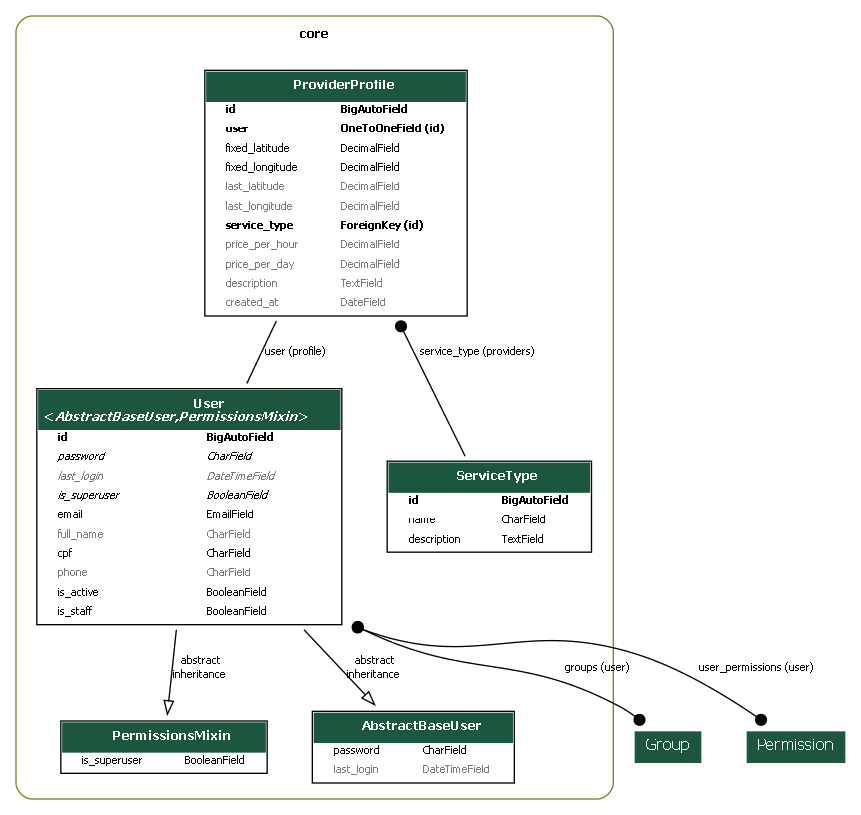
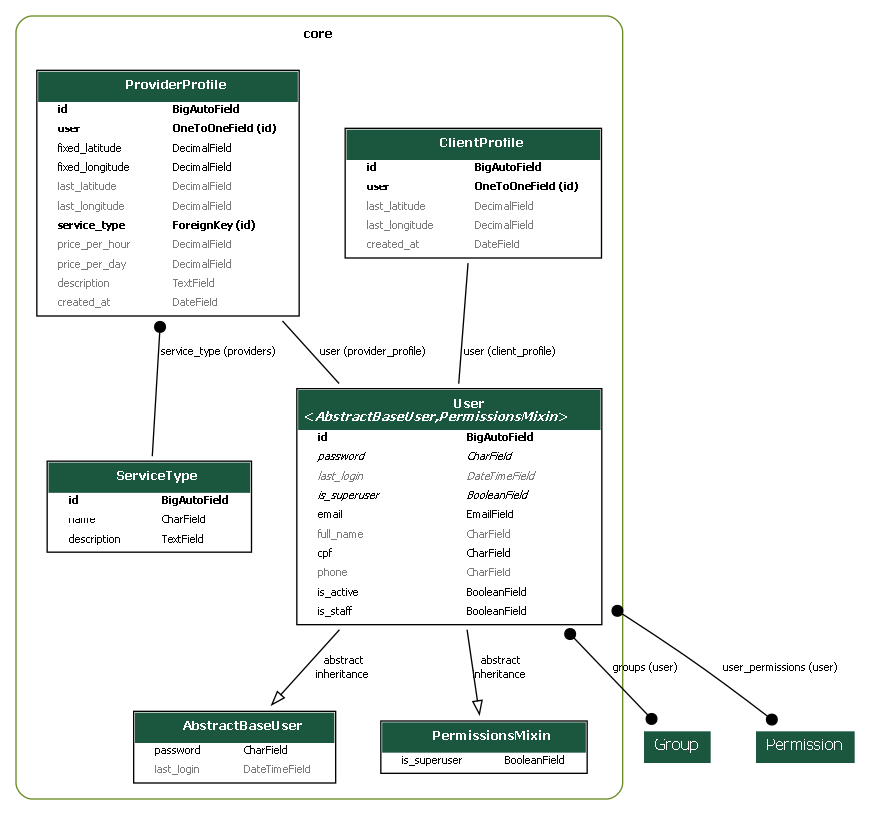
FEAT: Create ClientProfile

diff --git a/core/migrations/0009_alter_providerprofile_user_clientprofile.py b/core/migrations/0009_alter_providerprofile_user_clientprofile.py
@@ -1,0 +1,30 @@
+# Generated by Django 5.2.12 on 2026-04-01 15:12
+
+import django.db.models.deletion
+from django.conf import settings
+from django.db import migrations, models
+
+
+class Migration(migrations.Migration):
+
+    dependencies = [
+        ('core', '0008_user_cpf_user_phone'),
+    ]
+
+    operations = [
+        migrations.AlterField(
+            model_name='providerprofile',
+            name='user',
+            field=models.OneToOneField(on_delete=django.db.models.deletion.CASCADE, related_name='provider_profile', to=settings.AUTH_USER_MODEL),
+        ),
+        migrations.CreateModel(
+            name='ClientProfile',
+            fields=[
+                ('id', models.BigAutoField(auto_created=True, primary_key=True, serialize=False, verbose_name='ID')),
+                ('last_latitude', models.DecimalField(blank=True, decimal_places=6, max_digits=9, null=True)),
+                ('last_longitude', models.DecimalField(blank=True, decimal_places=6, max_digits=9, null=True)),
+                ('created_at', models.DateField(auto_now_add=True)),
+                ('user', models.OneToOneField(on_delete=django.db.models.deletion.CASCADE, related_name='client_profile', to=settings.AUTH_USER_MODEL)),
+            ],
+        ),
+    ]

diff --git a/core/models/profile.py b/core/models/profile.py
@@ -4,7 +4,7 @@ from . import ServiceType, User
 
 
 class ProviderProfile(models.Model):
-    user = models.OneToOneField(User, on_delete=models.CASCADE, related_name='profile')
+    user = models.OneToOneField(User, on_delete=models.CASCADE, related_name='provider_profile')
     fixed_latitude = models.DecimalField(max_digits=9, decimal_places=6,)
     fixed_longitude = models.DecimalField(max_digits=9, decimal_places=6,)
     last_latitude = models.DecimalField(max_digits=9, decimal_places=6, null=True, blank=True)
@@ -17,3 +17,13 @@ class ProviderProfile(models.Model):
 
     def __str__(self):
         return f'({self.id}) user: {self.user.email}, {self.service_type.name}'
+
+
+class ClientProfile(models.Model):
+    user = models.OneToOneField(User, on_delete=models.CASCADE, related_name='client_profile')
+    last_latitude = models.DecimalField(max_digits=9, decimal_places=6, null=True, blank=True)
+    last_longitude = models.DecimalField(max_digits=9, decimal_places=6, null=True, blank=True)
+    created_at = models.DateField(auto_now_add=True)
+
+    def __str__(self):
+        return f'({self.id}) user: {self.user.email}'

diff --git a/core/models/__init__.py b/core/models/__init__.py
@@ -1,3 +1,3 @@
 from .user import User
 from .service import ServiceType
-from .profile import ProviderProfile
+from .profile import ClientProfile, ProviderProfile

diff --git a/core/admin.py b/core/admin.py
@@ -52,5 +52,6 @@ class UserAdmin(BaseUserAdmin):
 
 
 admin.site.register(models.User, UserAdmin)
+admin.site.register(models.ClientProfile)
 admin.site.register(models.ProviderProfile)
 admin.site.register(models.ServiceType)